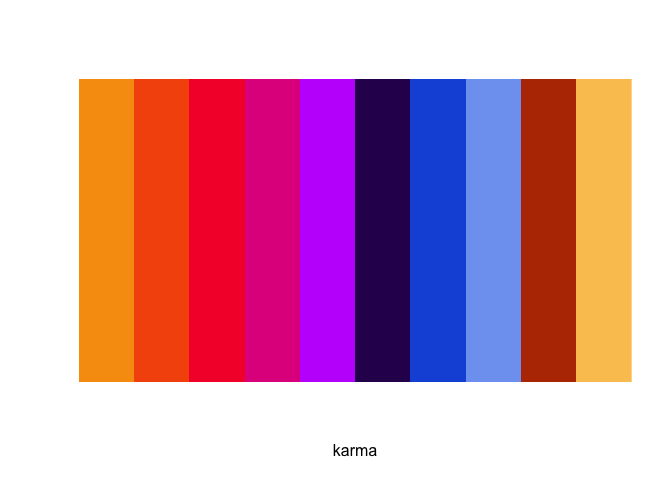
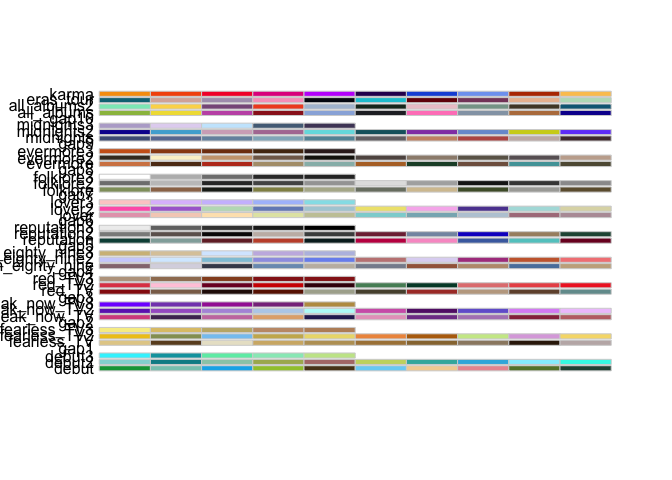
:heart_eyes: Rebuild README with new display

diff --git a/README.md b/README.md
@@ -16,6 +16,34 @@ You can install the development version of taylorswiftthemes from
 ``` r
 # install.packages("devtools")
 devtools::install_github("mfgeary/taylorswiftthemes")
+#> Downloading GitHub repo mfgeary/taylorswiftthemes@HEAD
+#> colorspace  (2.0-3 -> 2.1-0) [CRAN]
+#> rlang       (1.0.6 -> 1.1.1) [CRAN]
+#> cli         (3.6.0 -> 3.6.1) [CRAN]
+#> utf8        (1.2.2 -> 1.2.3) [CRAN]
+#> vctrs       (0.5.2 -> 0.6.2) [CRAN]
+#> pillar      (1.8.1 -> 1.9.0) [CRAN]
+#> fansi       (1.0.3 -> 1.0.4) [CRAN]
+#> viridisLite (0.4.0 -> 0.4.2) [CRAN]
+#> tibble      (3.1.8 -> 3.2.1) [CRAN]
+#> isoband     (0.2.5 -> 0.2.7) [CRAN]
+#> gtable      (0.3.1 -> 0.3.3) [CRAN]
+#> ggplot2     (3.4.1 -> 3.4.2) [CRAN]
+#> Installing 12 packages: colorspace, rlang, cli, utf8, vctrs, pillar, fansi, viridisLite, tibble, isoband, gtable, ggplot2
+#> Installing packages into '/private/var/folders/9j/lvjt0v6d513_rdj7xjc8h7tc0000gn/T/RtmpZN0myo/temp_libpathccc74054285'
+#> (as 'lib' is unspecified)
+#> 
+#> The downloaded binary packages are in
+#>  /var/folders/9j/lvjt0v6d513_rdj7xjc8h7tc0000gn/T//RtmpJFHbUs/downloaded_packages
+#> ── R CMD build ─────────────────────────────────────────────────────────────────
+#> * checking for file ‘/private/var/folders/9j/lvjt0v6d513_rdj7xjc8h7tc0000gn/T/RtmpJFHbUs/remotes18d774aa89fe/mfgeary-taylorswiftthemes-d3c8868/DESCRIPTION’ ... OK
+#> * preparing ‘taylorswiftthemes’:
+#> * checking DESCRIPTION meta-information ... OK
+#> * checking for LF line-endings in source and make files and shell scripts
+#> * checking for empty or unneeded directories
+#> * building ‘taylorswiftthemes_0.0.0.9000.tar.gz’
+#> Installing package into '/private/var/folders/9j/lvjt0v6d513_rdj7xjc8h7tc0000gn/T/RtmpZN0myo/temp_libpathccc74054285'
+#> (as 'lib' is unspecified)
 ```
 
 ## Example
@@ -30,31 +58,174 @@ library(taylorswiftthemes)
 
 ``` r
 display_taylor_all()
-#>  [1] "karma"                 "eras_tour"             "all_albums2"          
-#>  [4] "all_albums"            "midnights3"            "midnights2"           
-#>  [7] "midnights"             "evermore3"             "evermore2"            
-#> [10] "evermore"              "folklore3"             "folklore2"            
-#> [13] "folklore"              "lover3"                "lover2"               
-#> [16] "lover"                 "reputation3"           "reputation2"          
-#> [19] "reputation"            "nineteen_eighty_nine3" "nineteen_eighty_nine2"
-#> [22] "nineteen_eighty_nine"  "red_TV3"               "red_TV2"              
-#> [25] "red_TV"                "speak_now_TV3"         "speak_now_TV2"        
-#> [28] "speak_now_TV"          "fearless_TV3"          "fearless_TV2"         
-#> [31] "fearless_TV"           "debut3"                "debut2"               
-#> [34] "debut"
+#> $debut
+#>  [1] "#09a143" "#88c8bc" "#0cb1ea" "#a0c639" "#5a411f" "#79d2f6" "#f3d2a1"
+#>  [8] "#ea989f" "#648236" "#295042"
+#> 
+#> $debut2
+#>  [1] "#92d7d6" "#038c95" "#9acbb6" "#aab45e" "#b27a78" "#c8d670" "#3cb3ab"
+#>  [8] "#37b4e0" "#94eefd" "#35f8e8"
+#> 
+#> $debut3
+#> [1] "#34f2fe" "#00a2ad" "#6aebb3" "#97e9c1" "#c6e597"
+#> 
+#> $gap1
+#> [1] ""
+#> 
+#> $fearless_TV
+#>  [1] "#e3ce96" "#6c4d26" "#e9e3cd" "#d2b475" "#bc9f65" "#ab8346" "#98763f"
+#>  [8] "#9b8971" "#361f0a" "#c1b4b4"
+#> 
+#> $fearless_TV2
+#>  [1] "#efc619" "#949e63" "#85C7F2" "#cab35d" "#ebdb7a" "#ee964b" "#B66D0D"
+#>  [8] "#CBE896" "#DCABDF" "#F6DB79"
+#> 
+#> $fearless_TV3
+#> [1] "#f7ed94" "#dec477" "#c3b377" "#c49977" "#bb8f68"
+#> 
+#> $gap2
+#> [1] ""
+#> 
+#> $speak_now_TV
+#>  [1] "#d5528e" "#4f3261" "#c97cae" "#e1ae7c" "#2d2560" "#e7a3c4" "#803f95"
+#>  [8] "#b286bf" "#97314b" "#be7074"
+#> 
+#> $speak_now_TV2
+#>  [1] "#6f2dbd" "#a663cc" "#b298dc" "#b8d0eb" "#b9faf8" "#d264b6" "#631d76"
+#>  [8] "#7364d2" "#dc93f6" "#eec7fc"
+#> 
+#> $speak_now_TV3
+#> [1] "#7f00ff" "#844abb" "#a32aa3" "#88368a" "#bd9b51"
+#> 
+#> $gap3
+#> [1] ""
+#> 
+#> $red_TV
+#>  [1] "#961710" "#8a6d58" "#290c07" "#691801" "#acae9c" "#57503b" "#ab3b32"
+#>  [8] "#c0a78f" "#71503a" "#739b9c"
+#> 
+#> $red_TV2
+#>  [1] "#e04754" "#ffcbdd" "#7c0b2b" "#d10000" "#3e000c" "#568d66" "#004733"
+#>  [8] "#e28080" "#e95555" "#ef2b2b"
+#> 
+#> $red_TV3
+#> [1] "#bca38d" "#9e7c60" "#954d25" "#951e1a" "#951e1a"
+#> 
+#> $gap4
+#> [1] ""
+#> 
+#> $nineteen_eighty_nine
+#>  [1] "#94767e" "#d9d7e2" "#424959" "#7a9bbd" "#c2bab0" "#878d9c" "#a26548"
+#>  [8] "#bd997c" "#5980aa" "#c7ad8c"
+#> 
+#> $nineteen_eighty_nine2
+#>  [1] "#ced1fd" "#d6ebff" "#8fc6da" "#9ea0e4" "#7993ef" "#c38584" "#ded6f2"
+#>  [8] "#ae418d" "#c9673b" "#f38485"
+#> 
+#> $nineteen_eighty_nine3
+#> [1] "#d2bd88" "#dcc9a8" "#d7e9ff" "#c7b8e3" "#b9bfe3"
+#> 
+#> $gap5
+#> [1] ""
+#> 
+#> $reputation
+#>  [1] "#0b4e45" "#92aca9" "#722930" "#c55135" "#082426" "#C30950" "#f99dcb"
+#>  [8] "#496dae" "#61c9c8" "#7B0828"
+#> 
+#> $reputation2
+#>  [1] "#8b8c8b" "#6d625d" "#0a0808" "#c6b9b2" "#4a4d4d" "#7f2b41" "#8597b0"
+#>  [8] "#1625c9" "#a78f71" "#255442"
+#> 
+#> $reputation3
+#> [1] "#eeeeee" "#727272" "#404040" "#222222" "#000000"
+#> 
+#> $gap6
+#> [1] ""
+#> 
+#> $lover
+#>  [1] "#e6a5b9" "#f5d0c0" "#fde4bc" "#e2e5b1" "#c7c8a6" "#8cd3d4" "#87b3be"
+#>  [8] "#bbcbd8" "#ad7d8a" "#b69ca5"
+#> 
+#> $lover2
+#>  [1] "#ff64b7" "#ab6dd2" "#beddbf" "#748cc1" "#aeced8" "#eee37c" "#f7b7ed"
+#>  [8] "#5d459f" "#aededd" "#ddd9b3"
+#> 
+#> $lover3
+#> [1] "#fdcdcd" "#dec0fc" "#cec0fd" "#adc0fb" "#94e1e9"
+#> 
+#> $gap7
+#> [1] ""
+#> 
+#> $folklore
+#>  [1] "#909e6c" "#9c7457" "#1e221b" "#908f53" "#b3b499" "#797f71" "#d5c39f"
+#>  [8] "#4e5b33" "#a9a9a6" "#6d5d3c"
+#> 
+#> $folklore2
+#>  [1] "#7f7f7f" "#c4c4c4" "#333333" "#545454" "#a4a4a4" "#e1e1e1" "#afafaf"
+#>  [8] "#1a1a1a" "#444444" "#9b9a9b"
+#> 
+#> $folklore3
+#> [1] "#ffffff" "#bababa" "#7f7f7f" "#353535" "#2e2e2e"
+#> 
+#> $gap8
+#> [1] ""
+#> 
+#> $evermore
+#>  [1] "#d48452" "#5f3819" "#bd3b22" "#b19d7a" "#97bab7" "#b47131" "#214E34"
+#>  [8] "#80604e" "#50A2A7" "#605a42"
+#> 
+#> $evermore2
+#>  [1] "#423629" "#fbf1ce" "#cba47d" "#816956" "#18170e" "#605550" "#9c8c7c"
+#>  [8] "#6b6457" "#696164" "#c4ac9c"
+#> 
+#> $evermore3
+#> [1] "#cd621c" "#994914" "#7f3c11" "#533211" "#372322"
+#> 
+#> $gap9
+#> [1] ""
+#> 
+#> $midnights
+#>  [1] "#4e5d85" "#6b7ba0" "#7593ad" "#92b4c5" "#6494a5" "#757175" "#cc9475"
+#>  [8] "#bb5953" "#c8b7b2" "#50373b"
+#> 
+#> $midnights2
+#>  [1] "#11159c" "#4eadd6" "#d2aec1" "#b17ba1" "#73dde1" "#15616d" "#9345b3"
+#>  [8] "#789bd4" "#CFD11A" "#724CF9"
+#> 
+#> $midnights3
+#> [1] "#b8acd0" "#e2d5f1" "#c9e8fd" "#536d86" "#4e4466"
+#> 
+#> $gap10
+#> [1] ""
+#> 
+#> $all_albums
+#>  [1] "#9BBD4C" "#F0DE42" "#C45AB3" "#9B1D20" "#99B2DD" "#25272D" "#FF85C2"
+#>  [8] "#94A3B3" "#B87D4B" "#11159c"
+#> 
+#> $all_albums2
+#>  [1] "#8AE9C1" "#FCD757" "#885A89" "#F15025" "#AFC1D6" "#1B3022" "#EDC7CF"
+#>  [8] "#86A397" "#524632" "#0B6884"
+#> 
+#> $eras_tour
+#>  [1] "#067383" "#d9b1a7" "#ad9fba" "#f8a3c3" "#040711" "#12c6d5" "#730607"
+#>  [8] "#854569" "#eabd9f" "#bbdec2"
+#> 
+#> $karma
+#>  [1] "#f69d0d" "#f45608" "#f41c34" "#e2068d" "#c200fb" "#2e005d" "#1957db"
+#>  [8] "#7ea3f1" "#b83700" "#fbc55f"
 ```
 
-<img src="man/figures/README-unnamed-chunk-2-1.png" width="100%" />
+<img src="man/figures/README-unnamed-chunk-3-1.png" width="100%" />
 
 ``` r
 display_taylor_pal("karma")
 ```
 
-<img src="man/figures/README-unnamed-chunk-3-1.png" width="100%" />
+<img src="man/figures/README-unnamed-chunk-4-1.png" width="100%" />
 
 ``` r
 
 display_taylor_pal("speak_now_TV2")
 ```
 
-<img src="man/figures/README-unnamed-chunk-3-2.png" width="100%" />
+<img src="man/figures/README-unnamed-chunk-4-2.png" width="100%" />
